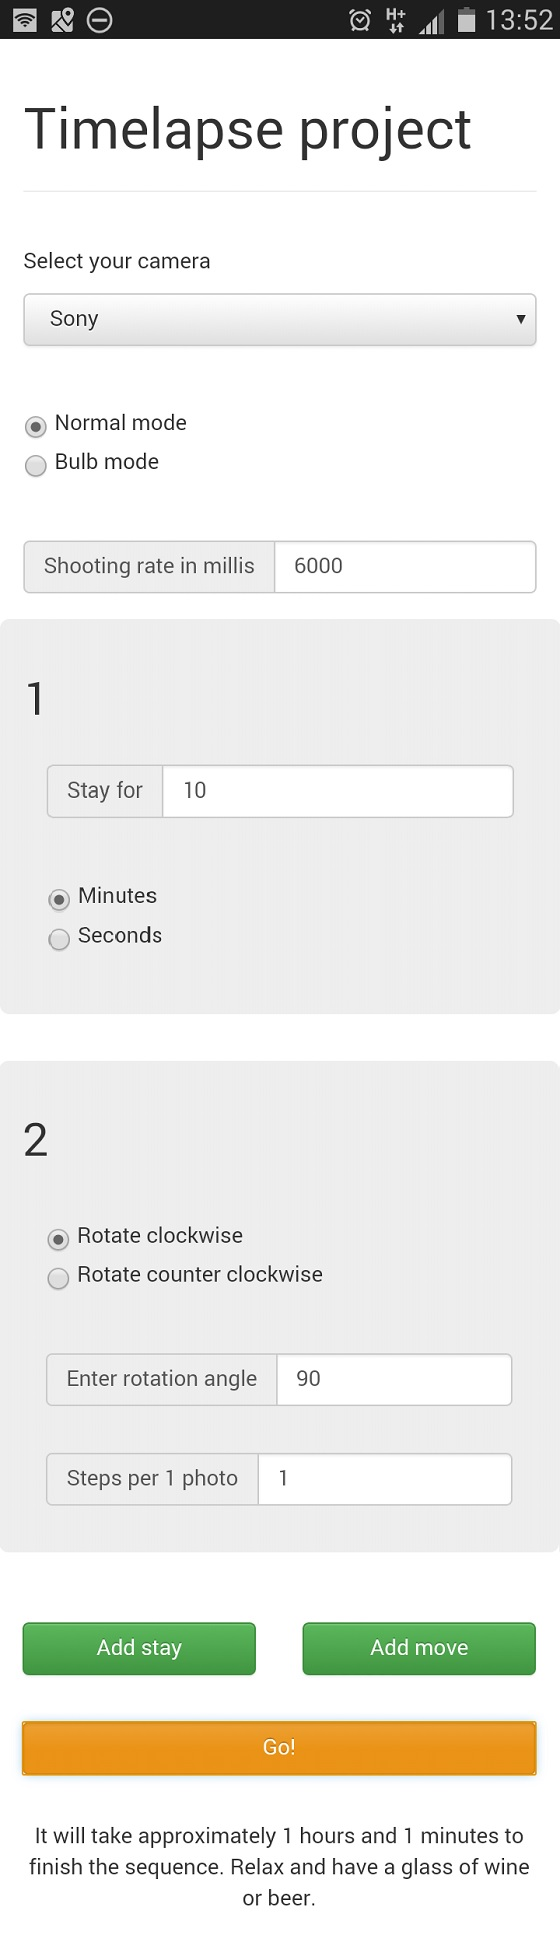
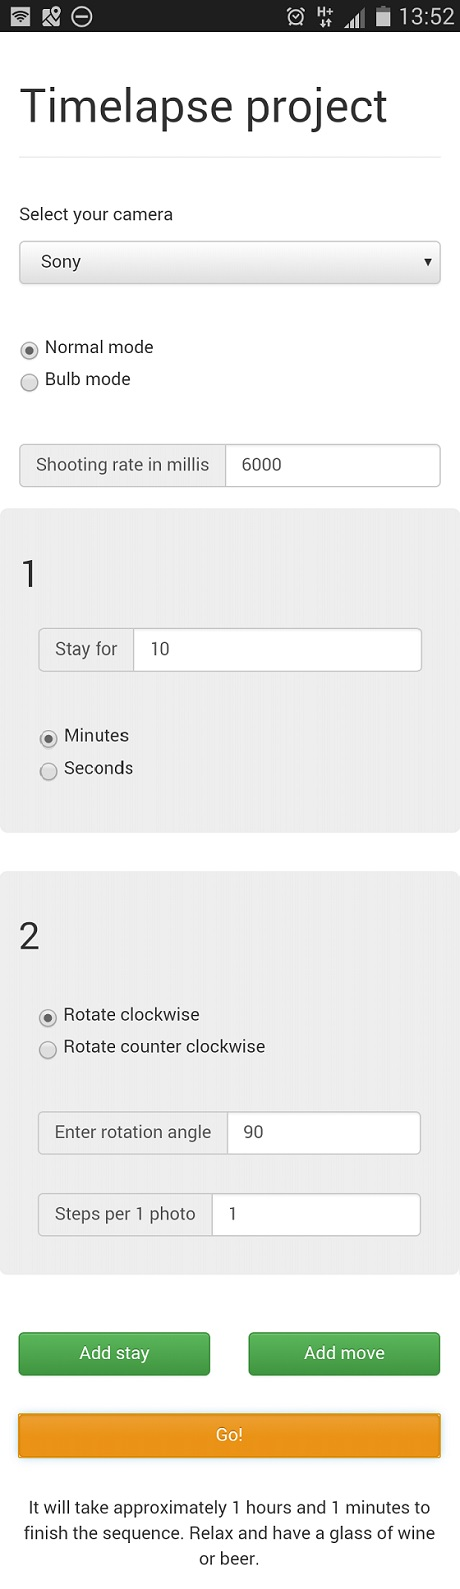
editing layout

diff --git a/index.html b/index.html
@@ -9,7 +9,7 @@
     <link rel="stylesheet" href="https://maxcdn.bootstrapcdn.com/bootstrap/3.3.6/css/bootstrap-theme.min.css" integrity="sha384-fLW2N01lMqjakBkx3l/M9EahuwpSfeNvV63J5ezn3uZzapT0u7EYsXMjQV+0En5r" crossorigin="anonymous">
     <link href='https://fonts.googleapis.com/css?family=Open+Sans:400,700' rel='stylesheet' type='text/css'>
 
-    <link href="styles/mystyles.css" rel="stylesheet">
+    <link href="./styles/mystyles.css" rel="stylesheet">
 
     <title>Timelapse Project</title>
 </head>
@@ -143,7 +143,7 @@
             </div>
         </div>
         <div class="row paragraph">
-            <div class="col-sm-5 paragraph-intro">
+            <div class="col-sm-6 paragraph-intro">
                 <ol>
                     <li>To be able to operate cameras of different manufacturers you need to pick your manufacturer in drop down list.</li>
                     <li>Choose between normal mode and bulb mode. The normal mode is when the shutter speed settings is specifyed in the camera. Bulb mode is when the external device tells camera when to close the shutter. Use bulb mode if you need long exposure. Usually 1 second or more. To use bulb mode you should activate it in your camera. The bulb mode in my camera activates when I'm increasing the exposure to the maximum. Always use manual mode in your camera when shooting timelapses.</li>
@@ -157,8 +157,8 @@
                 </ol>
             </div>
             <div class="col-sm-6 paragraph-media">
-                <div class="picture">
-                    <img src="https://github.com/carbone-kid/Timelapse_Project/raw/gh-pages/controls_overview.jpg" alt="The control page screenshot">
+                <div class="controls-ovirview-image">
+                    <img width="460" src="https://github.com/carbone-kid/Timelapse_Project/raw/gh-pages/controls_overview.jpg" alt="The control page screenshot">
                 </div>
             </div>
         </div>
@@ -176,7 +176,7 @@
     </div>
 </div>
 
-<script src="scripts/index.js"></script>
+<script src="./scripts/index.js"></script>
 
 </body>
 </html>

diff --git a/styles/mystyles.css b/styles/mystyles.css
@@ -89,3 +89,12 @@ h1, h2, h3, h4 {
     width: 580px;
     height: 335px;
 }
+
+.controls-ovirview-image {
+    border-radius: 8px;
+    padding: 0.6em;
+    box-shadow: 0 1px 1px rgba(0,0,0,0.3);
+    background: #ffffff;
+    width: 480px;
+    height: 1609px;
+}
